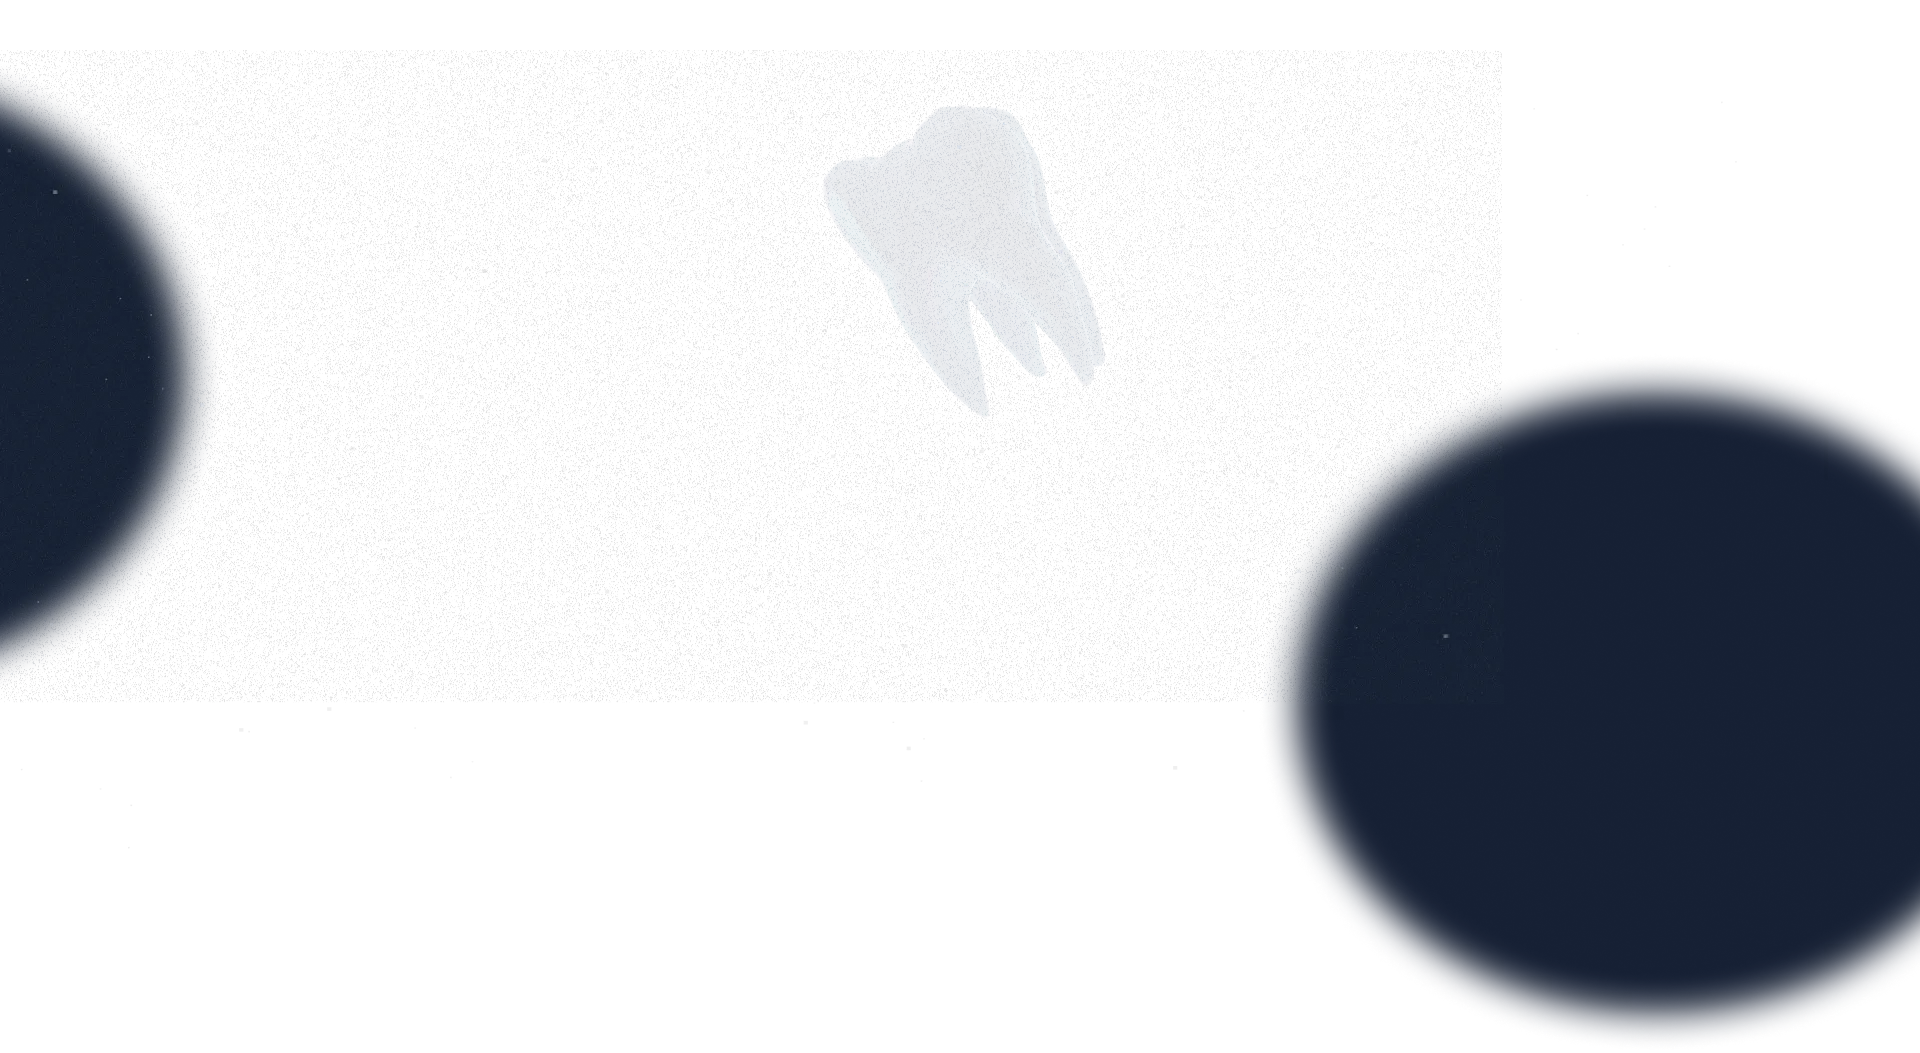
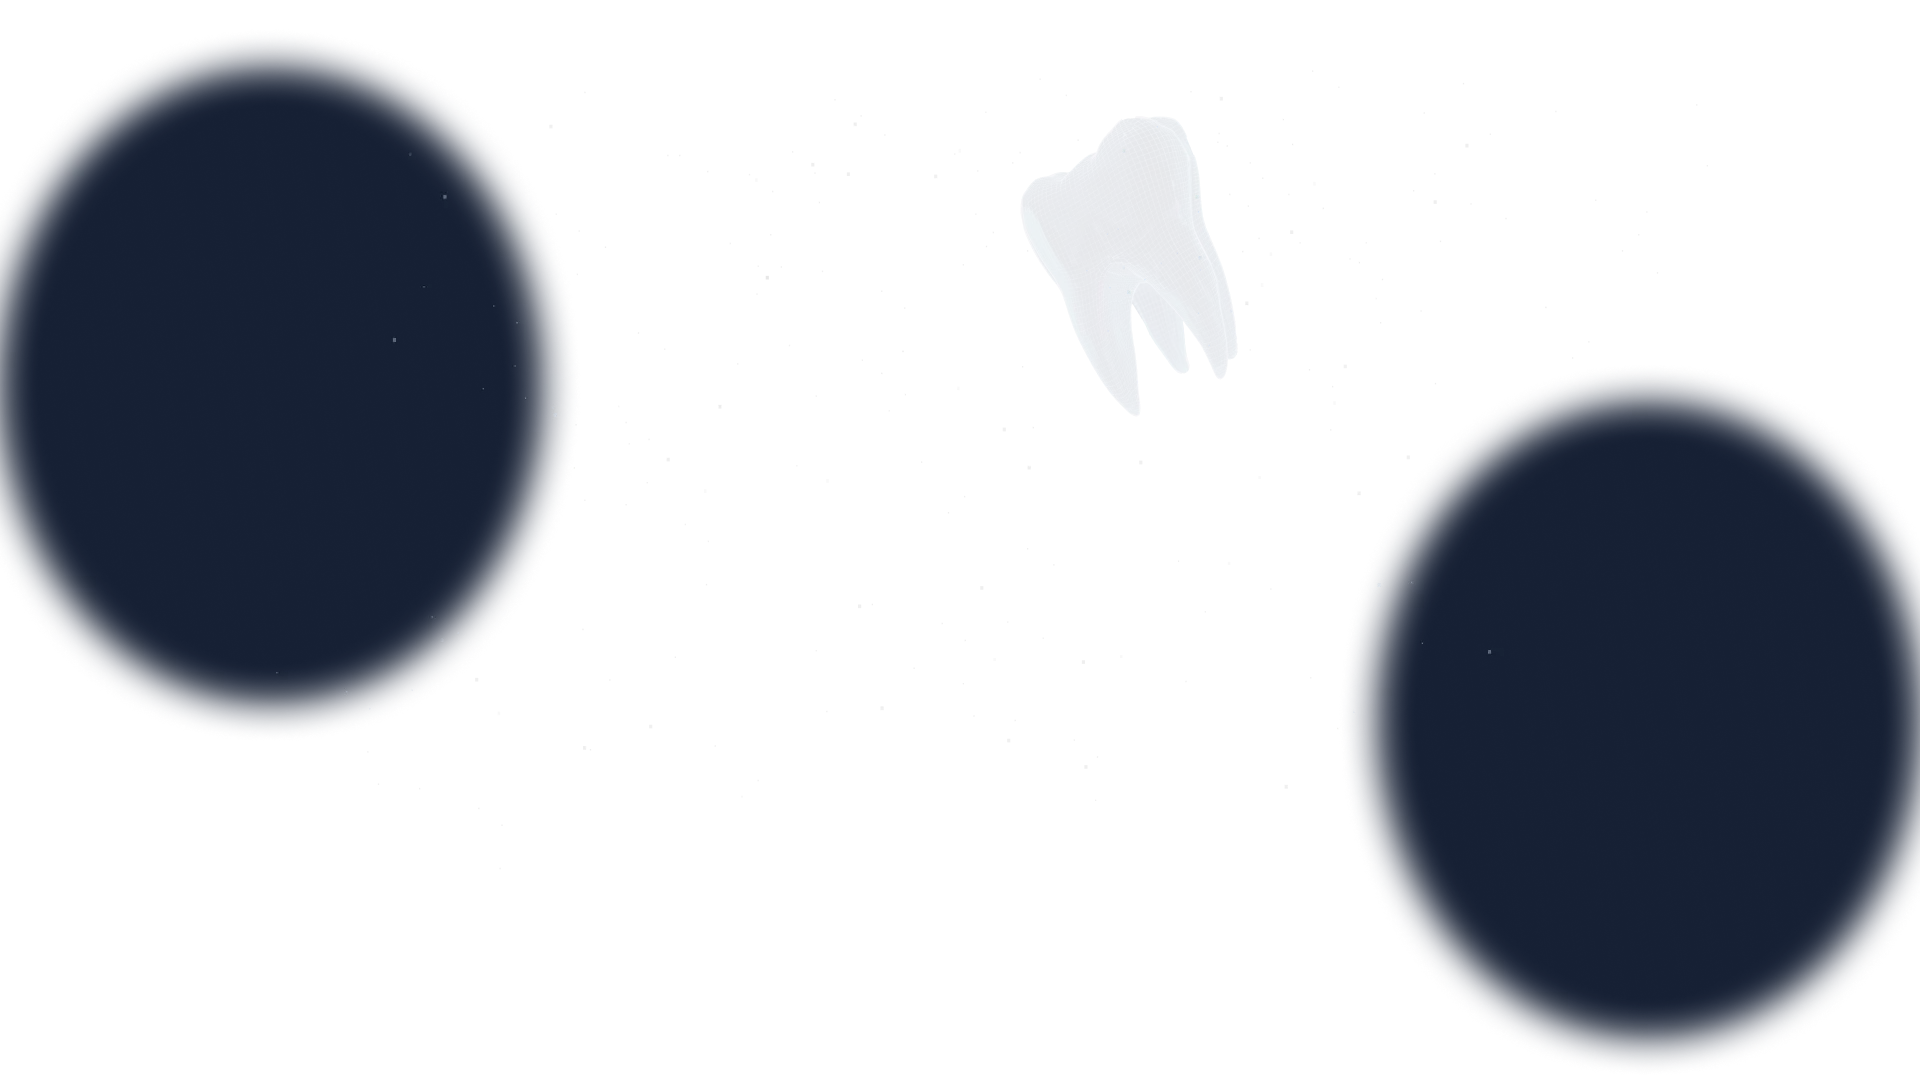
добавляет стили

diff --git a/about.html b/about.html
@@ -88,7 +88,10 @@
     </header>
 
     <h1 class="visually-hidden">Гелиодент - О клинике</h1>
-    <img class="product-main-bg" src="./src/img/bg/bg-product.webp" width="100%" height="100%">
+
+    <div class="bg-wrapper overflow-hidden">
+        <img src="./src/img/pixel.png">
+    </div>
 
     <div class="relative about-screen-1">
         <div class="scroll three-scroll-button"></div>
@@ -577,7 +580,7 @@
                 а врачи располагают экспертными знаниями и регулярно повышают квалификацию</p>
     </section>
 
-    <section class="section card-about about-screen-3 space-background">
+    <section class="section card-about about-screen-3">
         <div class="container text-center">
             <h2 class="card__title border-subtitle">К нам обращаются снова и снова, потому что наши специалисты:</h2>
             <img class="card__img" src="./src/img/sections-bg/section-bg-15.webp" width="1440" height="600" alt="img">
@@ -595,7 +598,7 @@
         <h2 class="card__text wow fadeIn"><span class="card__span">03 </span>Имеют большой опыт и практику</h2>
     </section>
 
-    <section class="section news-section news-section--about about-screen-6 overflow-hidden space-background">
+    <section class="section news-section news-section--about about-screen-6 overflow-hidden">
         <div class="container">
             <h2 class="visually-hidden">Преимущества</h2>
             <img class="news-section--about-img" src="./src/img/geliodent-string.png" width="1440" height="395"
@@ -635,7 +638,6 @@
     <!-- client -->
     <section class="our-clients about-screen-8 relative overflow-hidden">
         <img class="hero-decor" src="./src/img/decor/main-hero-decor.svg">
-        <img class="our-clients-fix-bg" src="./src/img/bg-space.webp">
         <div class="container">
             <h2 class="title">Наши клиенты – <span>наша гордость</span></h2>
         </div>
@@ -767,7 +769,7 @@
         </div>
     </section>
 
-    <section class="section table about-screen-9 overflow-hidden space-background">
+    <section class="section table about-screen-9 overflow-hidden">
         <img class="table-decor-vector-1" src="./src/img/table-vector-2.svg">
         <img class="table-decor-vector-2" src="./src/img/table-vector-1.svg">
         <div class="container">
@@ -805,7 +807,7 @@
     </section>
 
     <!-- calculate -->
-    <section class="calculate calculate-bg-2 calculate-about about-screen-10">
+    <section class="calculate calculate-about about-screen-10">
         <div class="container">
             <img class="calculate__img" src="./src/img/content/image-8.webp" width="407" height="408" alt="image">
             <h2 class="calculate__title">

diff --git a/css/main.css b/css/main.css
@@ -1965,6 +1965,10 @@ button.swiper-pagination-bullet{
 
 .news-section {
   padding: 100px 0;
+  background-color: var(--dark-blue);
+  background-image: url('../src/img/pixel.png');
+  background-repeat: no-repeat;
+  background-size: cover;
 }
 
 .news-section__title {
@@ -2867,7 +2871,7 @@ button.swiper-pagination-bullet{
 .product-healing {
   padding-top: 120px;
   padding-bottom: clamp(1.875rem, 0.979rem + 3.774vw, 4.375rem);
-  background-color: var(--dark-blue);
+  /* background-color: var(--dark-blue); */
 }
 
 .product-healing__title {
@@ -2939,7 +2943,6 @@ button.swiper-pagination-bullet{
 .our-clients {
   padding-top: clamp(1.875rem, 0.979rem + 3.774vw, 4.375rem);
   padding-bottom: clamp(1.875rem, 0.979rem + 3.774vw, 4.375rem);
-  background-color: var(--dark-blue);
   position: relative;
 }
 
@@ -3309,6 +3312,8 @@ button.swiper-pagination-bullet{
   background-size: cover;
   background-position: center center;
   background-attachment: fixed;
+  position: relative;
+  z-index: 1;
 }
 
 .how--braket-bg {
@@ -4752,7 +4757,7 @@ button.swiper-pagination-bullet{
   padding-top: 120px;
   padding-bottom: 70px;
   position: relative;
-  background-image: url('../src/img/bg-space.webp');
+  background-image: url('../src/img/pixel.png');
   background-repeat: no-repeat;
   background-size: cover;
 }
@@ -5703,7 +5708,6 @@ body::-webkit-scrollbar-thumb {
 
 .section-info {
   padding-top: 50px;
-  background-color: var(--dark-blue);
 }
 
 .product-main-bg {
@@ -5745,27 +5749,26 @@ body::-webkit-scrollbar-thumb {
 /* background ========================*/
 
 .space-background {
-  background-color: var(--dark-blue);
-  background-image: url('../src/img/bg-space.webp');
-  background-repeat: no-repeat;
-  position: relative;
+  /* background-color: var(--dark-blue);
+    background-image: url('../src/img/bg-space.webp');
+    background-repeat: no-repeat;
+    position: relative; */
 }
 
 .space-background-repeat {
-  background-color: var(--dark-blue);
-  background-image: url('../src/img/bg-space.webp');
-  position: relative;
+  /* background-color: var(--dark-blue);
+    background-image: url('../src/img/bg-space.webp');
+    position: relative; */
 }
 
 .space-background-re {
-  background-color: var(--dark-blue);
-  background-image: url('../src/img/bg-space.webp');
-  background-repeat: no-repeat;
-  position: relative;
+  /* background-color: var(--dark-blue);
+    background-image: url('../src/img/bg-space.webp');
+    background-repeat: no-repeat;
+    position: relative; */
 }
 
 .space-tooth-background {
-  background-color: var(--dark-blue);
   background-image: url('../src/img/bg.webp');
   background-repeat: no-repeat;
   position: relative;

diff --git a/src/input.css b/src/input.css
@@ -172,7 +172,6 @@ body::-webkit-scrollbar-thumb {
 
 .section-info {
     padding-top: 50px;
-    background-color: var(--dark-blue);
 }
 
 .product-main-bg {
@@ -214,27 +213,26 @@ body::-webkit-scrollbar-thumb {
 /* background ========================*/
 
 .space-background {
-    background-color: var(--dark-blue);
+    /* background-color: var(--dark-blue);
     background-image: url('../src/img/bg-space.webp');
     background-repeat: no-repeat;
-    position: relative;
+    position: relative; */
 }
 
 .space-background-repeat {
-    background-color: var(--dark-blue);
+    /* background-color: var(--dark-blue);
     background-image: url('../src/img/bg-space.webp');
-    position: relative;
+    position: relative; */
 }
 
 .space-background-re {
-    background-color: var(--dark-blue);
+    /* background-color: var(--dark-blue);
     background-image: url('../src/img/bg-space.webp');
     background-repeat: no-repeat;
-    position: relative;
+    position: relative; */
 }
 
 .space-tooth-background {
-    background-color: var(--dark-blue);
     background-image: url('../src/img/bg.webp');
     background-repeat: no-repeat;
     position: relative;

diff --git a/product-1.html b/product-1.html
@@ -87,6 +87,10 @@
     </header>
     <h1 class="visually-hidden">Гелиодент - Лечение зубов </h1>
 
+    <div class="bg-wrapper overflow-hidden">
+        <img src="./src/img/pixel.png">
+    </div>
+
     <section class="product-healing space-tooth-background">
         <div class="container">
             <div class="product-healing__inner product-healing__inner--desktop">
@@ -115,7 +119,6 @@
     </section>
 
     <section class="our-clients relative overflow-hidden">
-        <img class="our-clients-fix-bg" src="./src/img/bg-space.webp">
         <div class="container">
             <h2 class="title wow fadeInUp">Наши клиенты – <span>наша гордость</span></h2>
         </div>
@@ -313,7 +316,7 @@
         </div>
     </section>
 
-    <section class="section--dark-blue section-info space-background mb-28 overflow-hidden">
+    <section class="section-info space-background mb-28 overflow-hidden">
         <div class="container">
             <div class="flex items-center justify-between gap-3 mb-11 info-wrapper">
                 <div>

diff --git a/index.html b/index.html
@@ -136,7 +136,7 @@
     <!-- ======================================================================================================= -->
 
     <div class="bg-wrapper overflow-hidden">
-        <img src="./src/img/noise.webp">
+        <img src="./src/img/pixsel.png">
     </div>
 
     <section class="section hero section-1 overflow-hidden">
@@ -292,7 +292,7 @@
     <section class="section card section-6 pin relative overflow-hidden">
         <img class="card__img-full" src="./src/img/sections-bg/section-bg-6.webp" width="1440" height="600" alt="img">
         <h2 class="card__text wow fadeIn"><span class="card__span">02 </span>Сопровождение каждого пациента куратором
-            лечения</h2>
+            лечения</h2>ease-in-out;
     </section>
 
     <section class="section card section-7 pin relative overflow-hidden">

diff --git a/src/block/about.css b/src/block/about.css
@@ -2,10 +2,11 @@
     padding-top: 120px;
     padding-bottom: 70px;
     position: relative;
-    background-image: url('../src/img/bg-space.webp');
+    background-image: url('../src/img/pixel.png');
     background-repeat: no-repeat;
     background-size: cover;
 }
+
 
 .about-text {
     font-family: "Bebas Neue", sans-serif;

diff --git a/src/block/product-healing.css b/src/block/product-healing.css
@@ -1,7 +1,7 @@
 .product-healing {
     padding-top: 120px;
     padding-bottom: clamp(1.875rem, 0.979rem + 3.774vw, 4.375rem);
-    background-color: var(--dark-blue);
+    /* background-color: var(--dark-blue); */
 }
 
 .product-healing__title {

diff --git a/src/block/news-section.css b/src/block/news-section.css
@@ -1,5 +1,9 @@
 .news-section {
     padding: 100px 0;
+    background-color: var(--dark-blue);
+    background-image: url('../src/img/pixel.png');
+    background-repeat: no-repeat;
+    background-size: cover;
 }
 
 .news-section__title {

diff --git a/src/block/our-clients.css b/src/block/our-clients.css
@@ -1,7 +1,6 @@
 .our-clients {
     padding-top: clamp(1.875rem, 0.979rem + 3.774vw, 4.375rem);
     padding-bottom: clamp(1.875rem, 0.979rem + 3.774vw, 4.375rem);
-    background-color: var(--dark-blue);
     position: relative;
 }
 

diff --git a/src/block/how.css b/src/block/how.css
@@ -6,6 +6,9 @@
     background-size: cover;
     background-position: center center;
     background-attachment: fixed;
+
+    position: relative;
+    z-index: 1;
 }
 
 .how--braket-bg {
